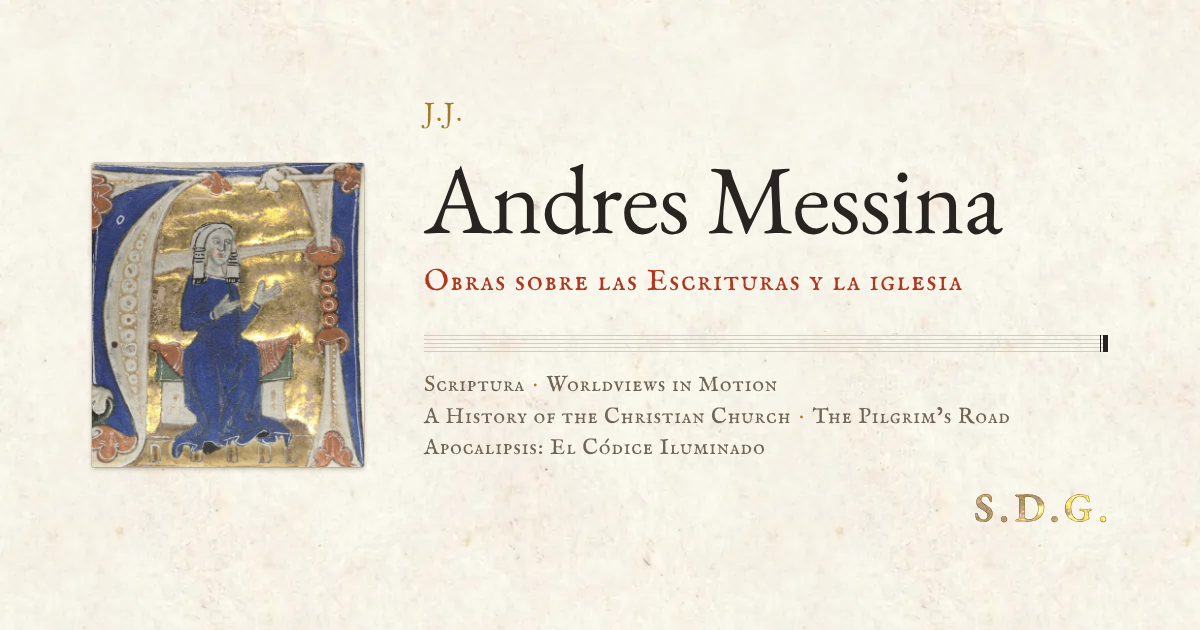
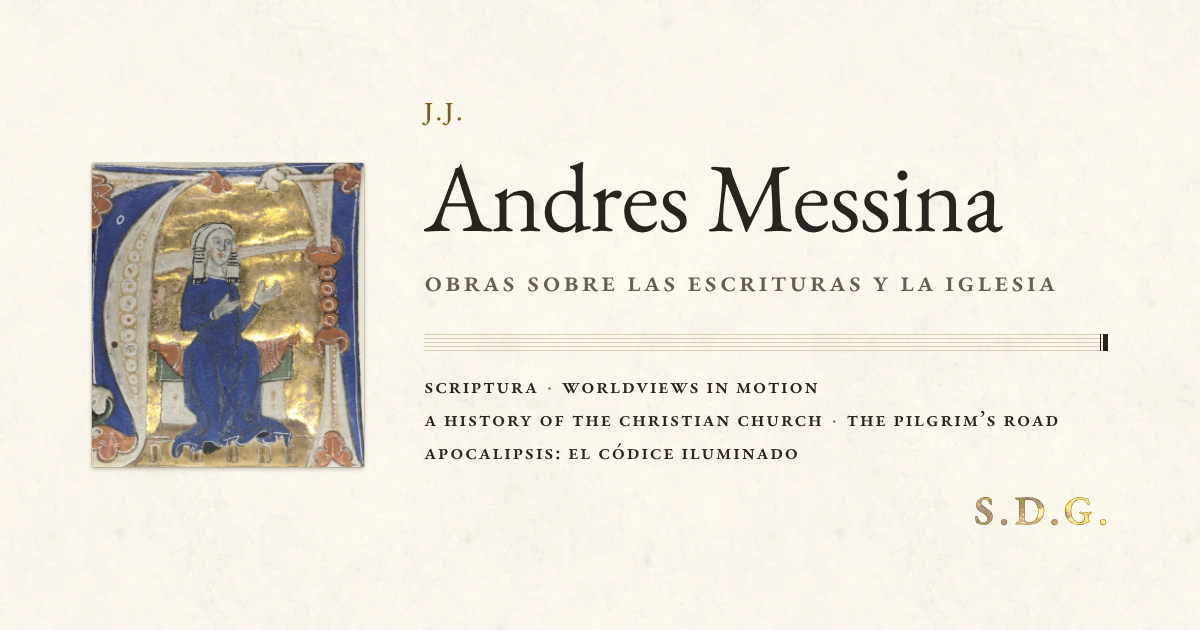
Share images set as the book now is
The English and Spanish share images drawn again in EB Garamond's own
small capitals on the new paper, the subtitle quiet rather than red and
J.J. in capitals, as on the page. The icons are unchanged.

Claude-Session: https://claude.ai/code/session_01DYe9WbnfF8iCgbQuoUdmui

diff --git a/tools/render-images.js b/tools/render-images.js
@@ -1,6 +1,7 @@
 #!/usr/bin/env node
 // Render the share images and icons from the same initial the page opens with (a real
-// thirteenth-century Bible initial, assets/book/initial-a.webp), on the same parchment:
+// thirteenth-century Bible initial, assets/book/initial-a.webp), on the book's paper, set as the book is,
+// in EB Garamond and its small capitals:
 //   node tools/render-images.js
 // Writes assets/og-en.png, assets/og-es.png, assets/icon-192.png,
 // apple-touch-icon.png and the PNGs that tools/make-favicon.py packs into favicon.ico.
@@ -27,13 +28,13 @@ const og = (lang) => {
     background:#FAF6ED url("/assets/book/paper.webp") 0 0 / 720px 720px;
     color:#2A2420;font-family:"EB Garamond",serif}
   .ini img{width:272px;height:auto;display:block;border-radius:2px;box-shadow:0 0 0 .5px rgba(60,40,10,.3),0 2px 4px rgba(60,40,10,.3)}
-  .jj{font-family:"EB Garamond";font-variant-caps:all-small-caps;font-weight:500;color:#A27A28;font-size:26px;letter-spacing:.1em;margin:0 0 22px}
+  .jj{font-family:"EB Garamond";font-weight:500;color:#7E5D1B;font-size:26px;letter-spacing:.1em;margin:0 0 22px}
   h1{margin:0;font-weight:400;font-size:98px;line-height:.95;letter-spacing:-.012em}
-  .sub{margin:18px 0 0;font-family:"EB Garamond";font-variant-caps:all-small-caps;font-weight:500;color:#B0361F;font-size:30px;letter-spacing:.05em}
+  .sub{margin:18px 0 0;font-family:"EB Garamond";font-variant-caps:all-small-caps;font-weight:500;color:#685E50;font-size:30px;letter-spacing:.08em}
   .staff{height:17px;margin:34px 0 0;position:relative;background:repeating-linear-gradient(to bottom,#D9CCB1 0 1px,transparent 1px 4px) no-repeat;background-size:100% 17px}
   .staff::after{content:"";position:absolute;right:0;top:0;width:8px;height:17px;background:linear-gradient(to right,#2A2420 0 1px,transparent 1px 3.5px,#2A2420 3.5px 8px)}
-  .works{margin:18px 0 0;font-family:"EB Garamond";font-variant-caps:all-small-caps;font-weight:500;font-size:22px;letter-spacing:.04em;color:#685E50;line-height:1.45}
-  .works b{font-weight:400;color:#A27A28;padding:0 .35em}
+  .works{margin:18px 0 0;font-family:"EB Garamond";font-variant-caps:all-small-caps;font-weight:500;font-size:22px;letter-spacing:.06em;color:#2A2420;line-height:1.5}
+  .works b{font-weight:400;color:#685E50;padding:0 .4em}
   .sdg{margin:16px 0 0;text-align:right;font-weight:600;font-size:40px;letter-spacing:.14em;margin-right:-.14em;
     background:url("/assets/book/gold.webp") center / 160px 160px;-webkit-background-clip:text;background-clip:text;color:transparent;
     -webkit-text-stroke:.4px #6E4F12}
